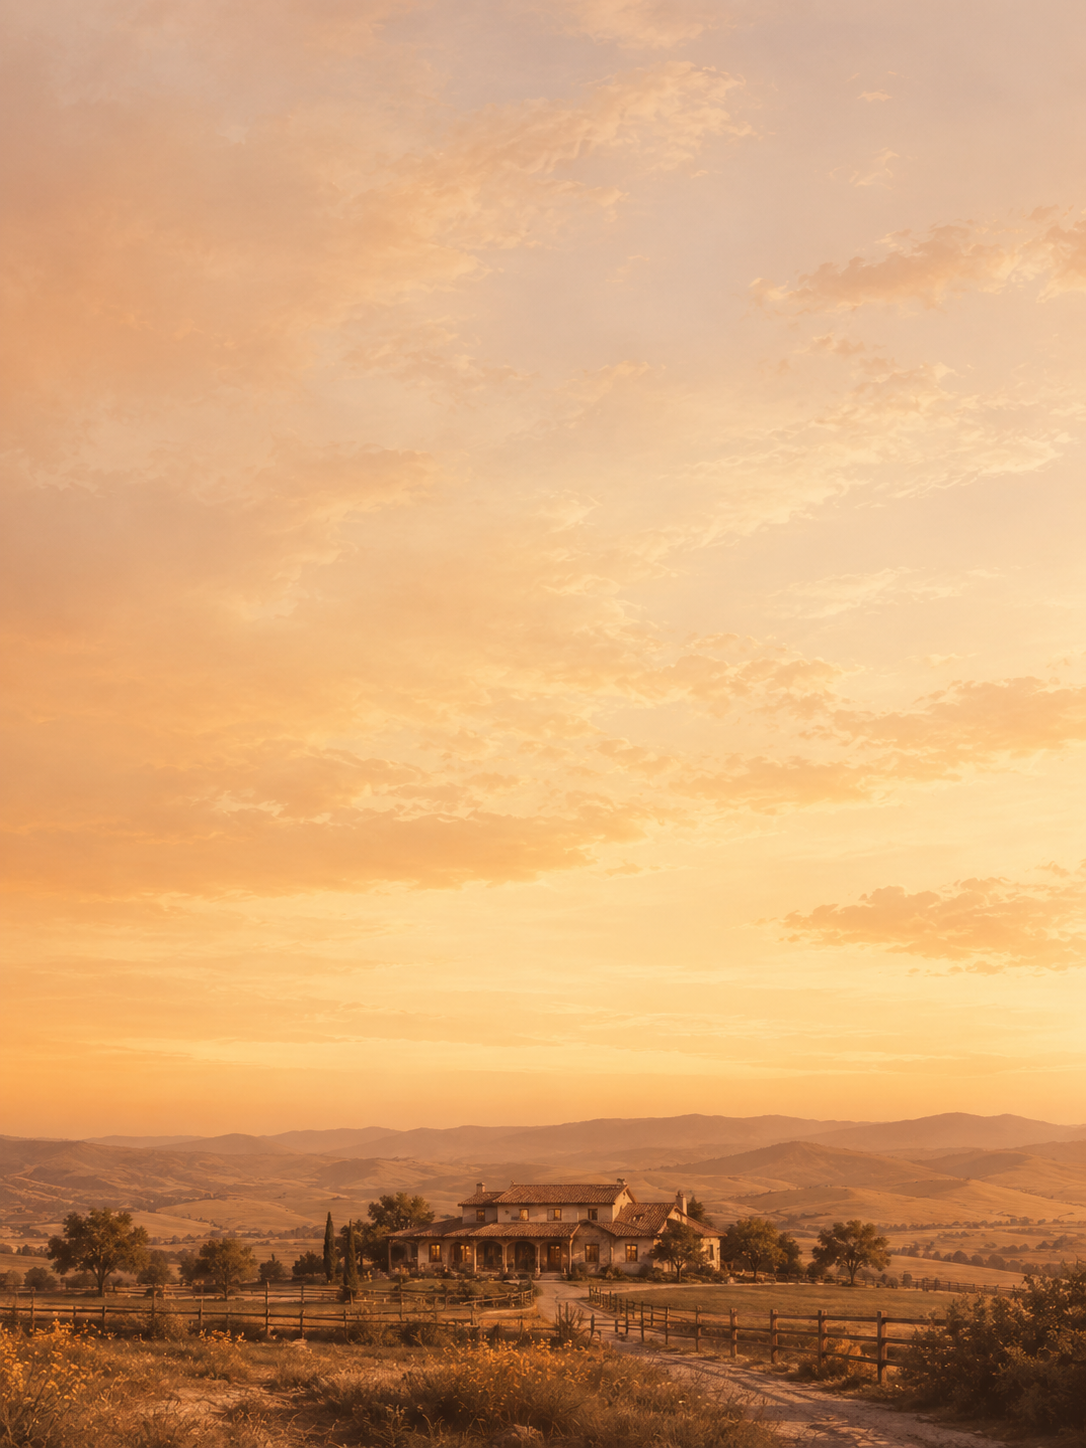
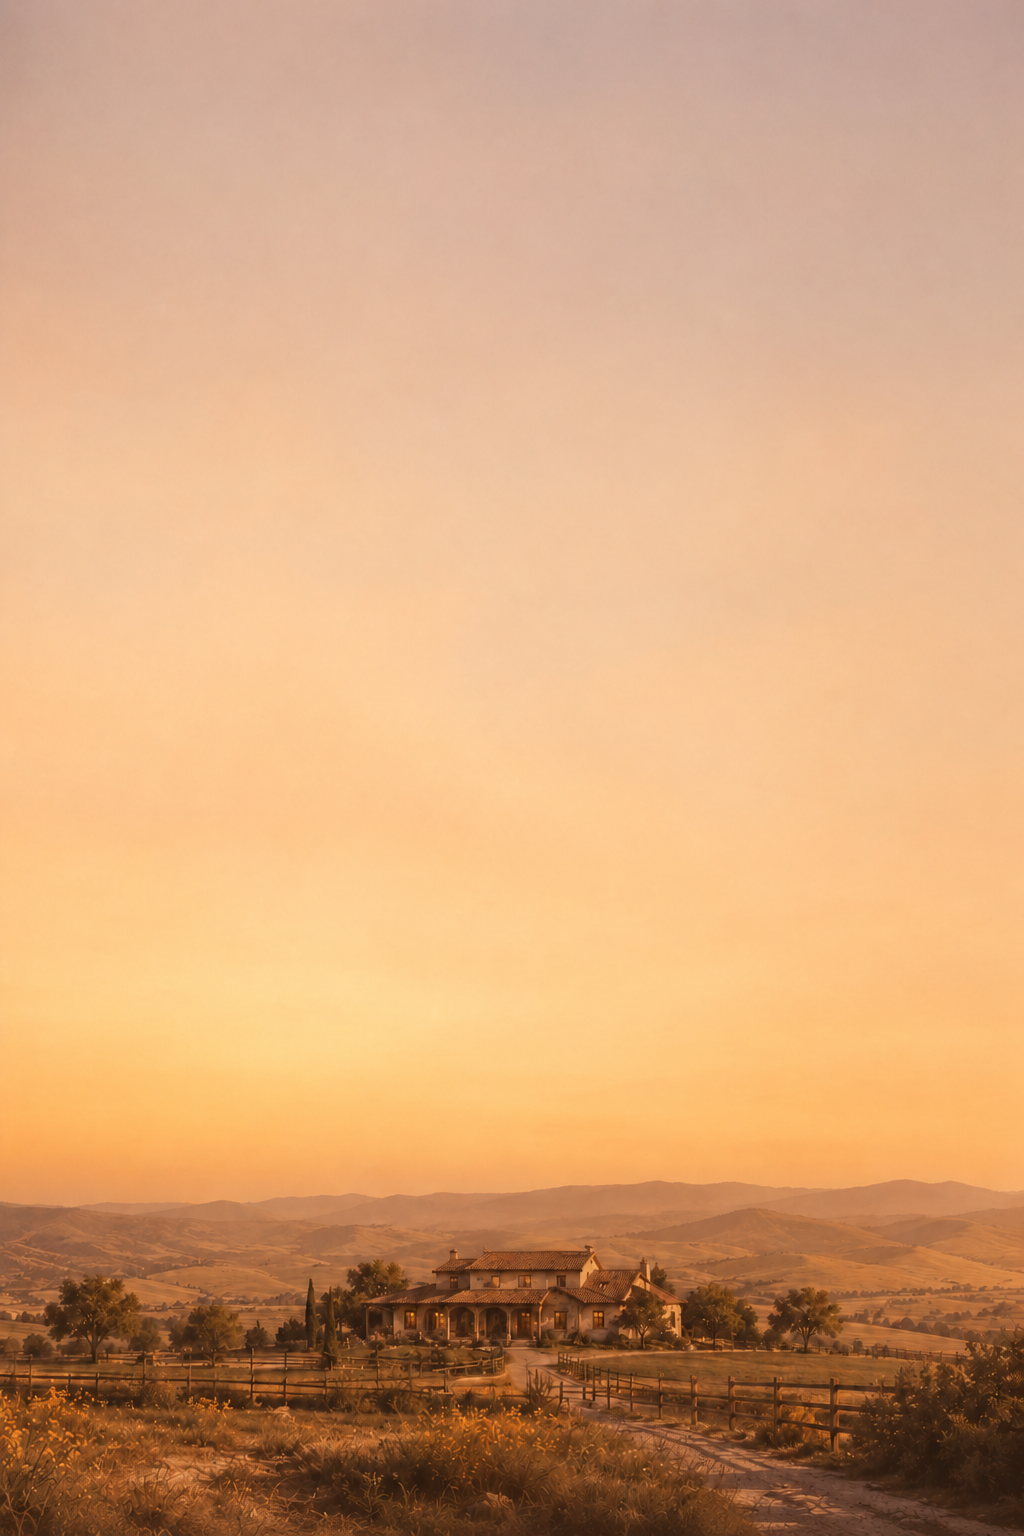
Ajustes no layout e menu lateral

diff --git a/app/page.tsx b/app/page.tsx
@@ -97,6 +97,9 @@ const subcategoryAliases: Record<string, string[]> = {
   acessorios: ['acessorio', 'acessorios'],
 };
 
+const productCategoryHeaderClass = 'mb-3 flex items-center justify-between gap-3';
+const productCategoryTitleClass = 'type-subtitle text-[var(--pastoril-brown)]';
+
 function normalizeFilterValue(value: string | null | undefined) {
   return (value ?? '')
     .normalize('NFD')
@@ -831,7 +834,7 @@ export default function Home() {
               backgroundPosition: 'center bottom',
             }}
           >
-            <div className="absolute inset-0 bg-[#4A2D1A]/30" />
+            <div className="absolute inset-0 bg-[#F9F6F1]/50" />
             <div className="relative z-10 flex h-full flex-col">
               <div className="relative flex items-center justify-center border-b border-[#F3E4D4]/18 px-14 pb-5 pt-6">
                 <Image
@@ -846,7 +849,7 @@ export default function Home() {
                 <button
                   type="button"
                   onClick={() => setIsMenuOpen(false)}
-                  className="absolute right-4 top-4 flex h-10 w-10 items-center justify-center rounded-full bg-transparent text-xl leading-none text-[#FFF8F0] transition hover:text-[#F6D2A8] focus-visible:outline focus-visible:outline-2 focus-visible:outline-offset-2 focus-visible:outline-[#F6D2A8]"
+                  className="absolute right-4 top-4 flex h-10 w-10 items-center justify-center rounded-full bg-transparent text-xl leading-none text-[#4A2D1A] transition hover:text-[#C8722C] focus-visible:outline focus-visible:outline-2 focus-visible:outline-offset-2 focus-visible:outline-[#C8722C]"
                   aria-label="Fechar menu"
                 >
                   x
@@ -857,7 +860,7 @@ export default function Home() {
                 <button
                   type="button"
                   onClick={goHomeFromMenu}
-                  className="type-button flex min-h-12 w-full items-center border-b border-[#F3E4D4]/16 bg-transparent px-2 py-3 text-left text-[#FFF8F0] transition hover:text-[#F6D2A8] focus-visible:outline focus-visible:outline-2 focus-visible:outline-offset-2 focus-visible:outline-[#F6D2A8]"
+                  className="type-button flex min-h-12 w-full items-center border-b border-[#F3E4D4]/16 bg-transparent px-2 py-3 text-left text-[#4A2D1A] transition hover:text-[#C8722C] focus-visible:outline focus-visible:outline-2 focus-visible:outline-offset-2 focus-visible:outline-[#C8722C]"
                 >
                   Início
                 </button>
@@ -872,8 +875,8 @@ export default function Home() {
                         key={category.id}
                         type="button"
                         onClick={() => selectMainCategoryFromMenu(category.id)}
-                        className={`type-button flex min-h-12 w-full items-center border-b border-[#F3E4D4]/16 bg-transparent px-2 py-3 text-left transition hover:text-[#F6D2A8] focus-visible:outline focus-visible:outline-2 focus-visible:outline-offset-2 focus-visible:outline-[#F6D2A8] ${
-                          isActive ? 'text-[#F6D2A8]' : 'text-[#FFF8F0]'
+                        className={`type-button flex min-h-12 w-full items-center border-b border-[#F3E4D4]/16 bg-transparent px-2 py-3 text-left transition hover:text-[#C8722C] focus-visible:outline focus-visible:outline-2 focus-visible:outline-offset-2 focus-visible:outline-[#C8722C] ${
+                          isActive ? 'text-[#C8722C]' : 'text-[#4A2D1A]'
                         }`}
                       >
                         {category.label}
@@ -890,8 +893,8 @@ export default function Home() {
                     setIsMenuOpen(false);
                     scrollToProducts();
                   }}
-                  className={`type-button flex min-h-12 w-full items-center border-b border-[#F3E4D4]/16 bg-transparent px-2 py-3 text-left transition hover:text-[#F6D2A8] focus-visible:outline focus-visible:outline-2 focus-visible:outline-offset-2 focus-visible:outline-[#F6D2A8] ${
-                    activeSubcategory === 'promocoes' ? 'text-[#F6D2A8]' : 'text-[#FFF8F0]'
+                  className={`type-button flex min-h-12 w-full items-center border-b border-[#F3E4D4]/16 bg-transparent px-2 py-3 text-left transition hover:text-[#C8722C] focus-visible:outline focus-visible:outline-2 focus-visible:outline-offset-2 focus-visible:outline-[#C8722C] ${
+                    activeSubcategory === 'promocoes' ? 'text-[#C8722C]' : 'text-[#4A2D1A]'
                   }`}
                 >
                   Promoções
@@ -903,7 +906,7 @@ export default function Home() {
                     setIsMenuOpen(false);
                     scrollToProducts();
                   }}
-                  className="type-button flex min-h-12 w-full items-center border-b border-[#F3E4D4]/16 bg-transparent px-2 py-3 text-left text-[#FFF8F0] transition hover:text-[#F6D2A8] focus-visible:outline focus-visible:outline-2 focus-visible:outline-offset-2 focus-visible:outline-[#F6D2A8]"
+                  className="type-button flex min-h-12 w-full items-center border-b border-[#F3E4D4]/16 bg-transparent px-2 py-3 text-left text-[#4A2D1A] transition hover:text-[#C8722C] focus-visible:outline focus-visible:outline-2 focus-visible:outline-offset-2 focus-visible:outline-[#C8722C]"
                 >
                   Buscar produtos
                 </button>
@@ -914,7 +917,7 @@ export default function Home() {
                     setIsMenuOpen(false);
                     setIsCartOpen(true);
                   }}
-                  className="type-button flex min-h-12 w-full items-center border-b border-[#F3E4D4]/16 bg-transparent px-2 py-3 text-left text-[#FFF8F0] transition hover:text-[#F6D2A8] focus-visible:outline focus-visible:outline-2 focus-visible:outline-offset-2 focus-visible:outline-[#F6D2A8]"
+                  className="type-button flex min-h-12 w-full items-center border-b border-[#F3E4D4]/16 bg-transparent px-2 py-3 text-left text-[#4A2D1A] transition hover:text-[#C8722C] focus-visible:outline focus-visible:outline-2 focus-visible:outline-offset-2 focus-visible:outline-[#C8722C]"
                 >
                   Carrinho
                 </button>
@@ -922,7 +925,7 @@ export default function Home() {
                 <Link
                   href="/login"
                   onClick={() => setIsMenuOpen(false)}
-                  className="type-button flex min-h-12 w-full items-center border-b border-[#F3E4D4]/16 px-2 py-3 text-left text-[#FFF8F0] transition hover:text-[#F6D2A8] focus-visible:outline focus-visible:outline-2 focus-visible:outline-offset-2 focus-visible:outline-[#F6D2A8]"
+                  className="type-button flex min-h-12 w-full items-center border-b border-[#F3E4D4]/16 px-2 py-3 text-left text-[#4A2D1A] transition hover:text-[#C8722C] focus-visible:outline focus-visible:outline-2 focus-visible:outline-offset-2 focus-visible:outline-[#C8722C]"
                 >
                   Login
                 </Link>
@@ -930,7 +933,7 @@ export default function Home() {
                 <Link
                   href="/quem-somos"
                   onClick={() => setIsMenuOpen(false)}
-                  className="type-button flex min-h-12 w-full items-center px-2 py-3 text-left text-[#FFF8F0] transition hover:text-[#F6D2A8] focus-visible:outline focus-visible:outline-2 focus-visible:outline-offset-2 focus-visible:outline-[#F6D2A8]"
+                  className="type-button flex min-h-12 w-full items-center px-2 py-3 text-left text-[#4A2D1A] transition hover:text-[#C8722C] focus-visible:outline focus-visible:outline-2 focus-visible:outline-offset-2 focus-visible:outline-[#C8722C]"
                 >
                   Quem somos
                 </Link>
@@ -1025,8 +1028,8 @@ export default function Home() {
         <div className="mx-auto max-w-7xl border-t border-[var(--pastoril-border)] px-5 py-5 sm:px-8 sm:py-8 lg:px-8">
           <section id="produtos" ref={productsSectionRef}>
             {activeSubcategory !== 'todos' && (
-              <div className="mb-5 flex items-center justify-between gap-4">
-                <h2 className="type-section-title">{productsTitle}</h2>
+              <div className={productCategoryHeaderClass}>
+                <h2 className={productCategoryTitleClass}>{productsTitle}</h2>
                 <button
                   type="button"
                   onClick={() => {
@@ -1057,8 +1060,8 @@ export default function Home() {
               <div className="space-y-7">
                 {productCarouselGroups.map((group, groupIndex) => (
                   <section key={group.slug} aria-label={group.label}>
-                    <div className="mb-3 flex items-center justify-between gap-3">
-                      <h3 className="type-subtitle text-[var(--pastoril-brown)]">{group.label}</h3>
+                    <div className={productCategoryHeaderClass}>
+                      <h3 className={productCategoryTitleClass}>{group.label}</h3>
                       <div className="hidden gap-2 md:flex">
                         <button
                           type="button"